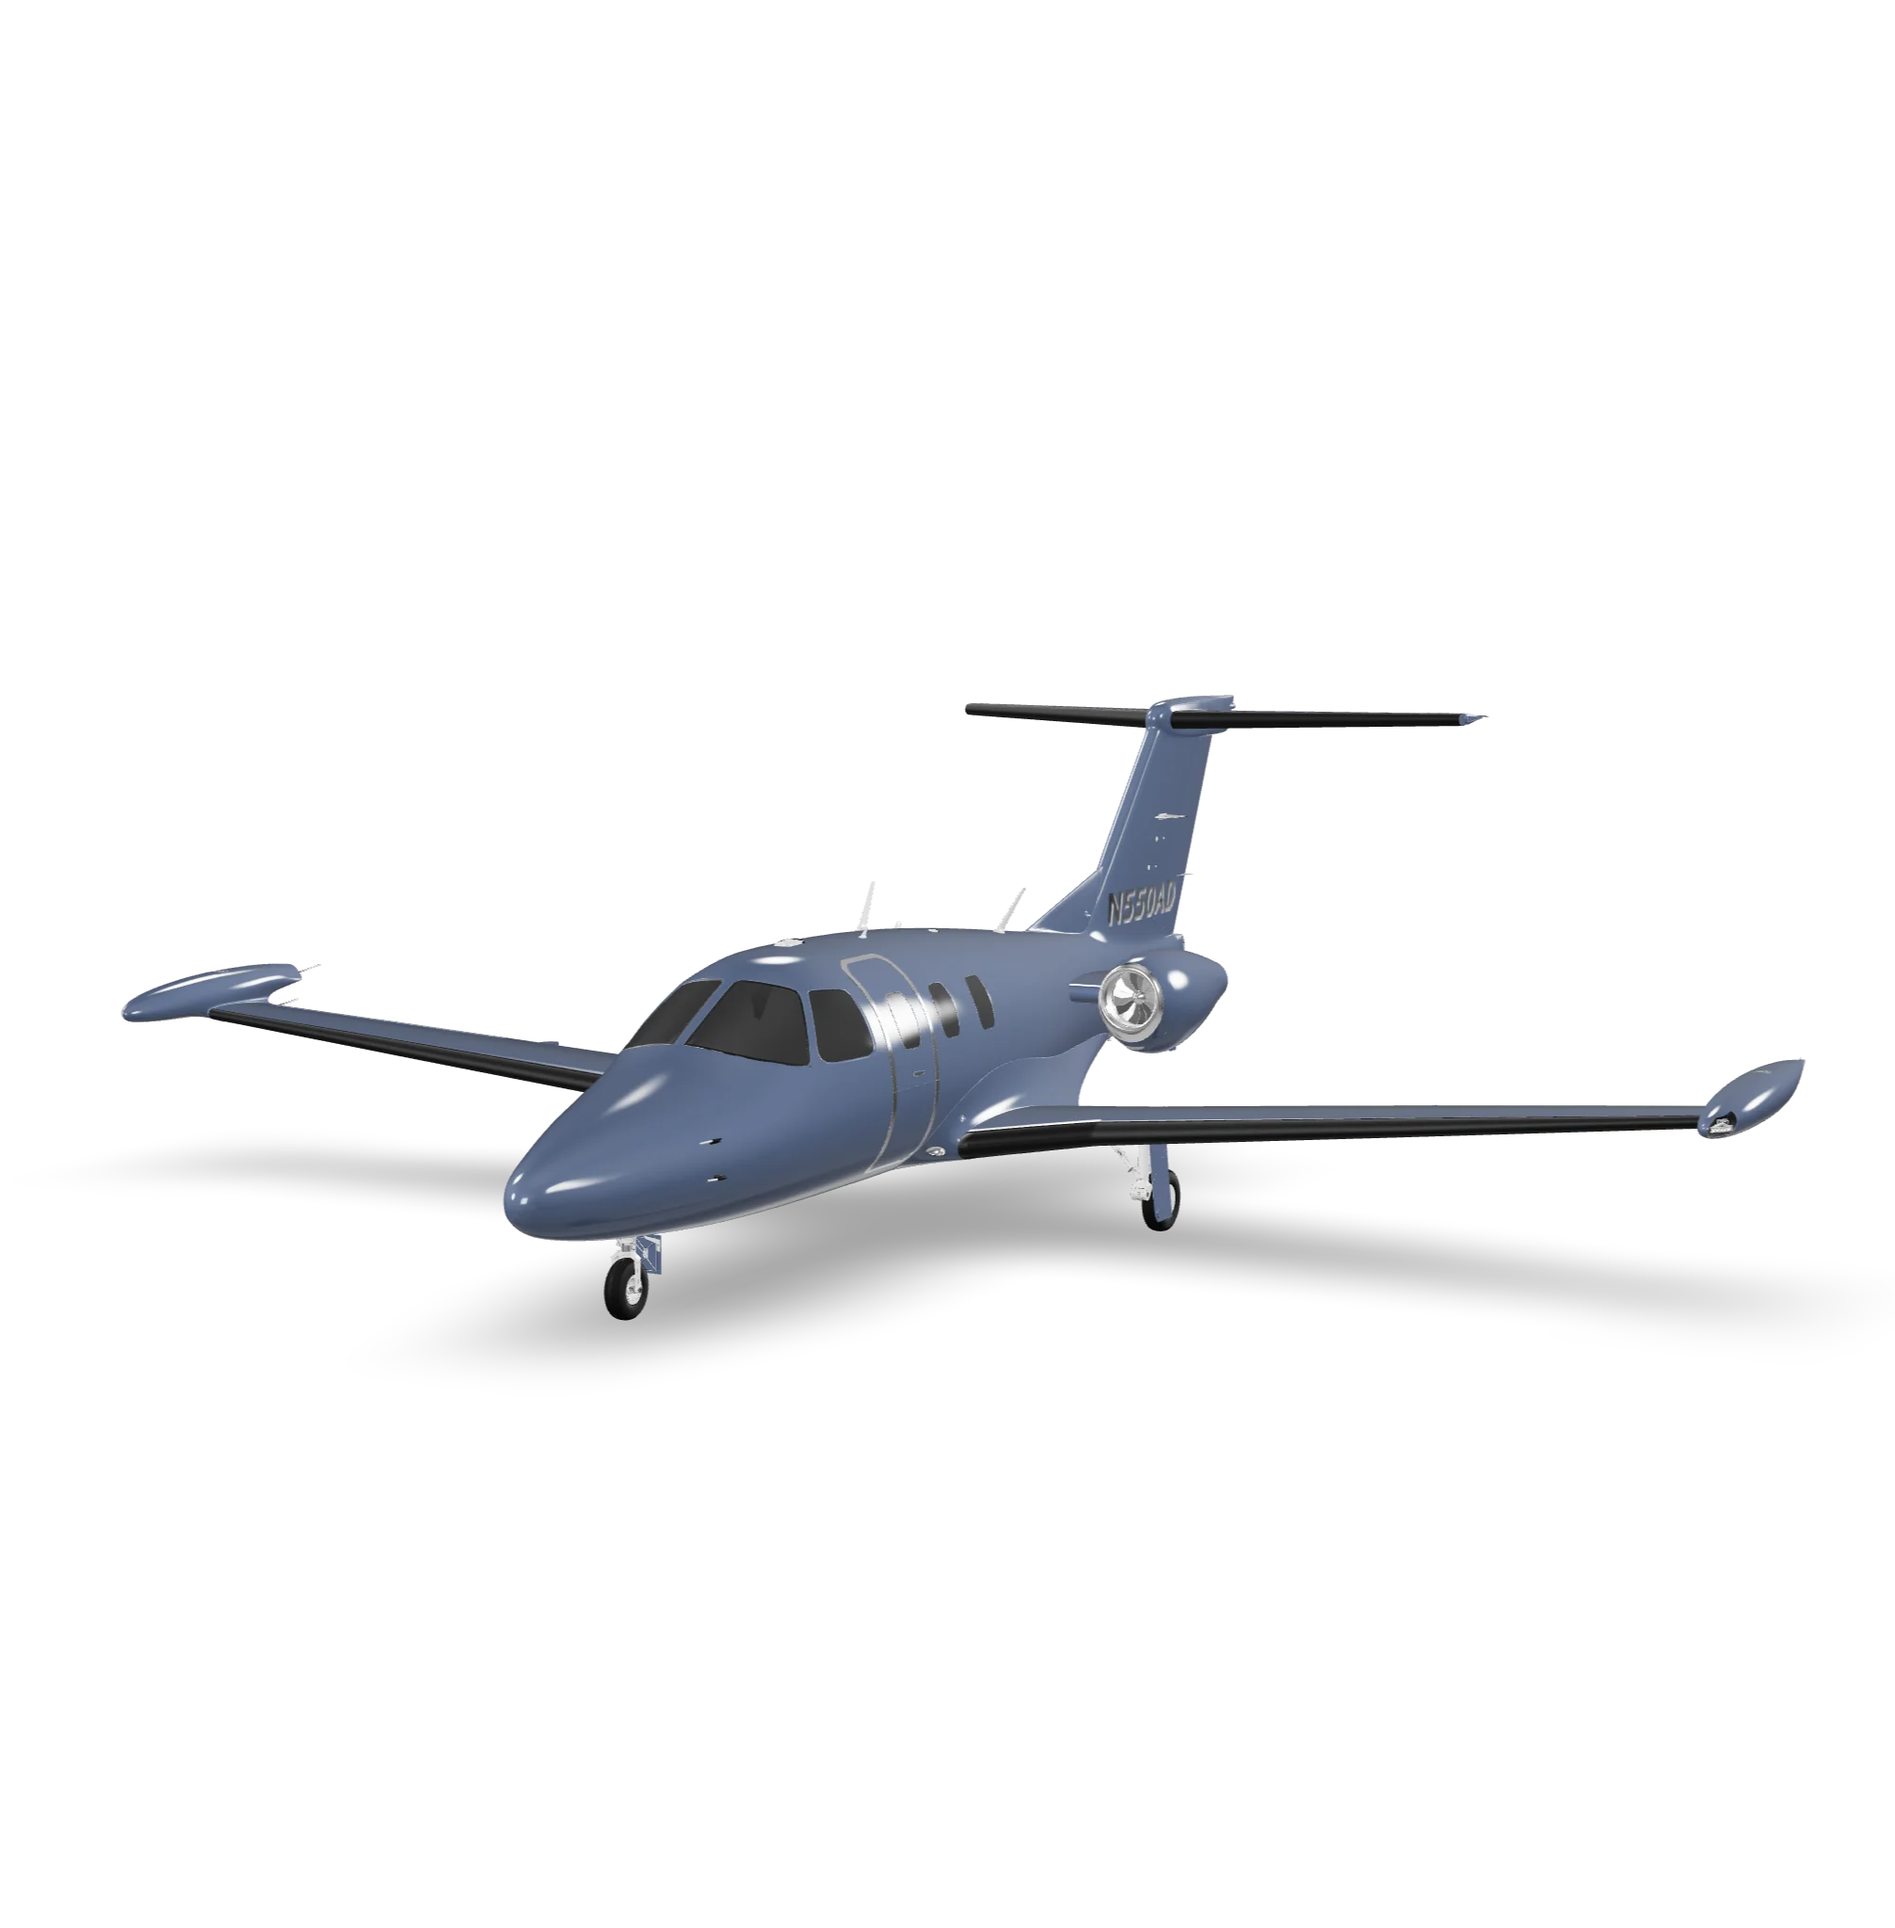
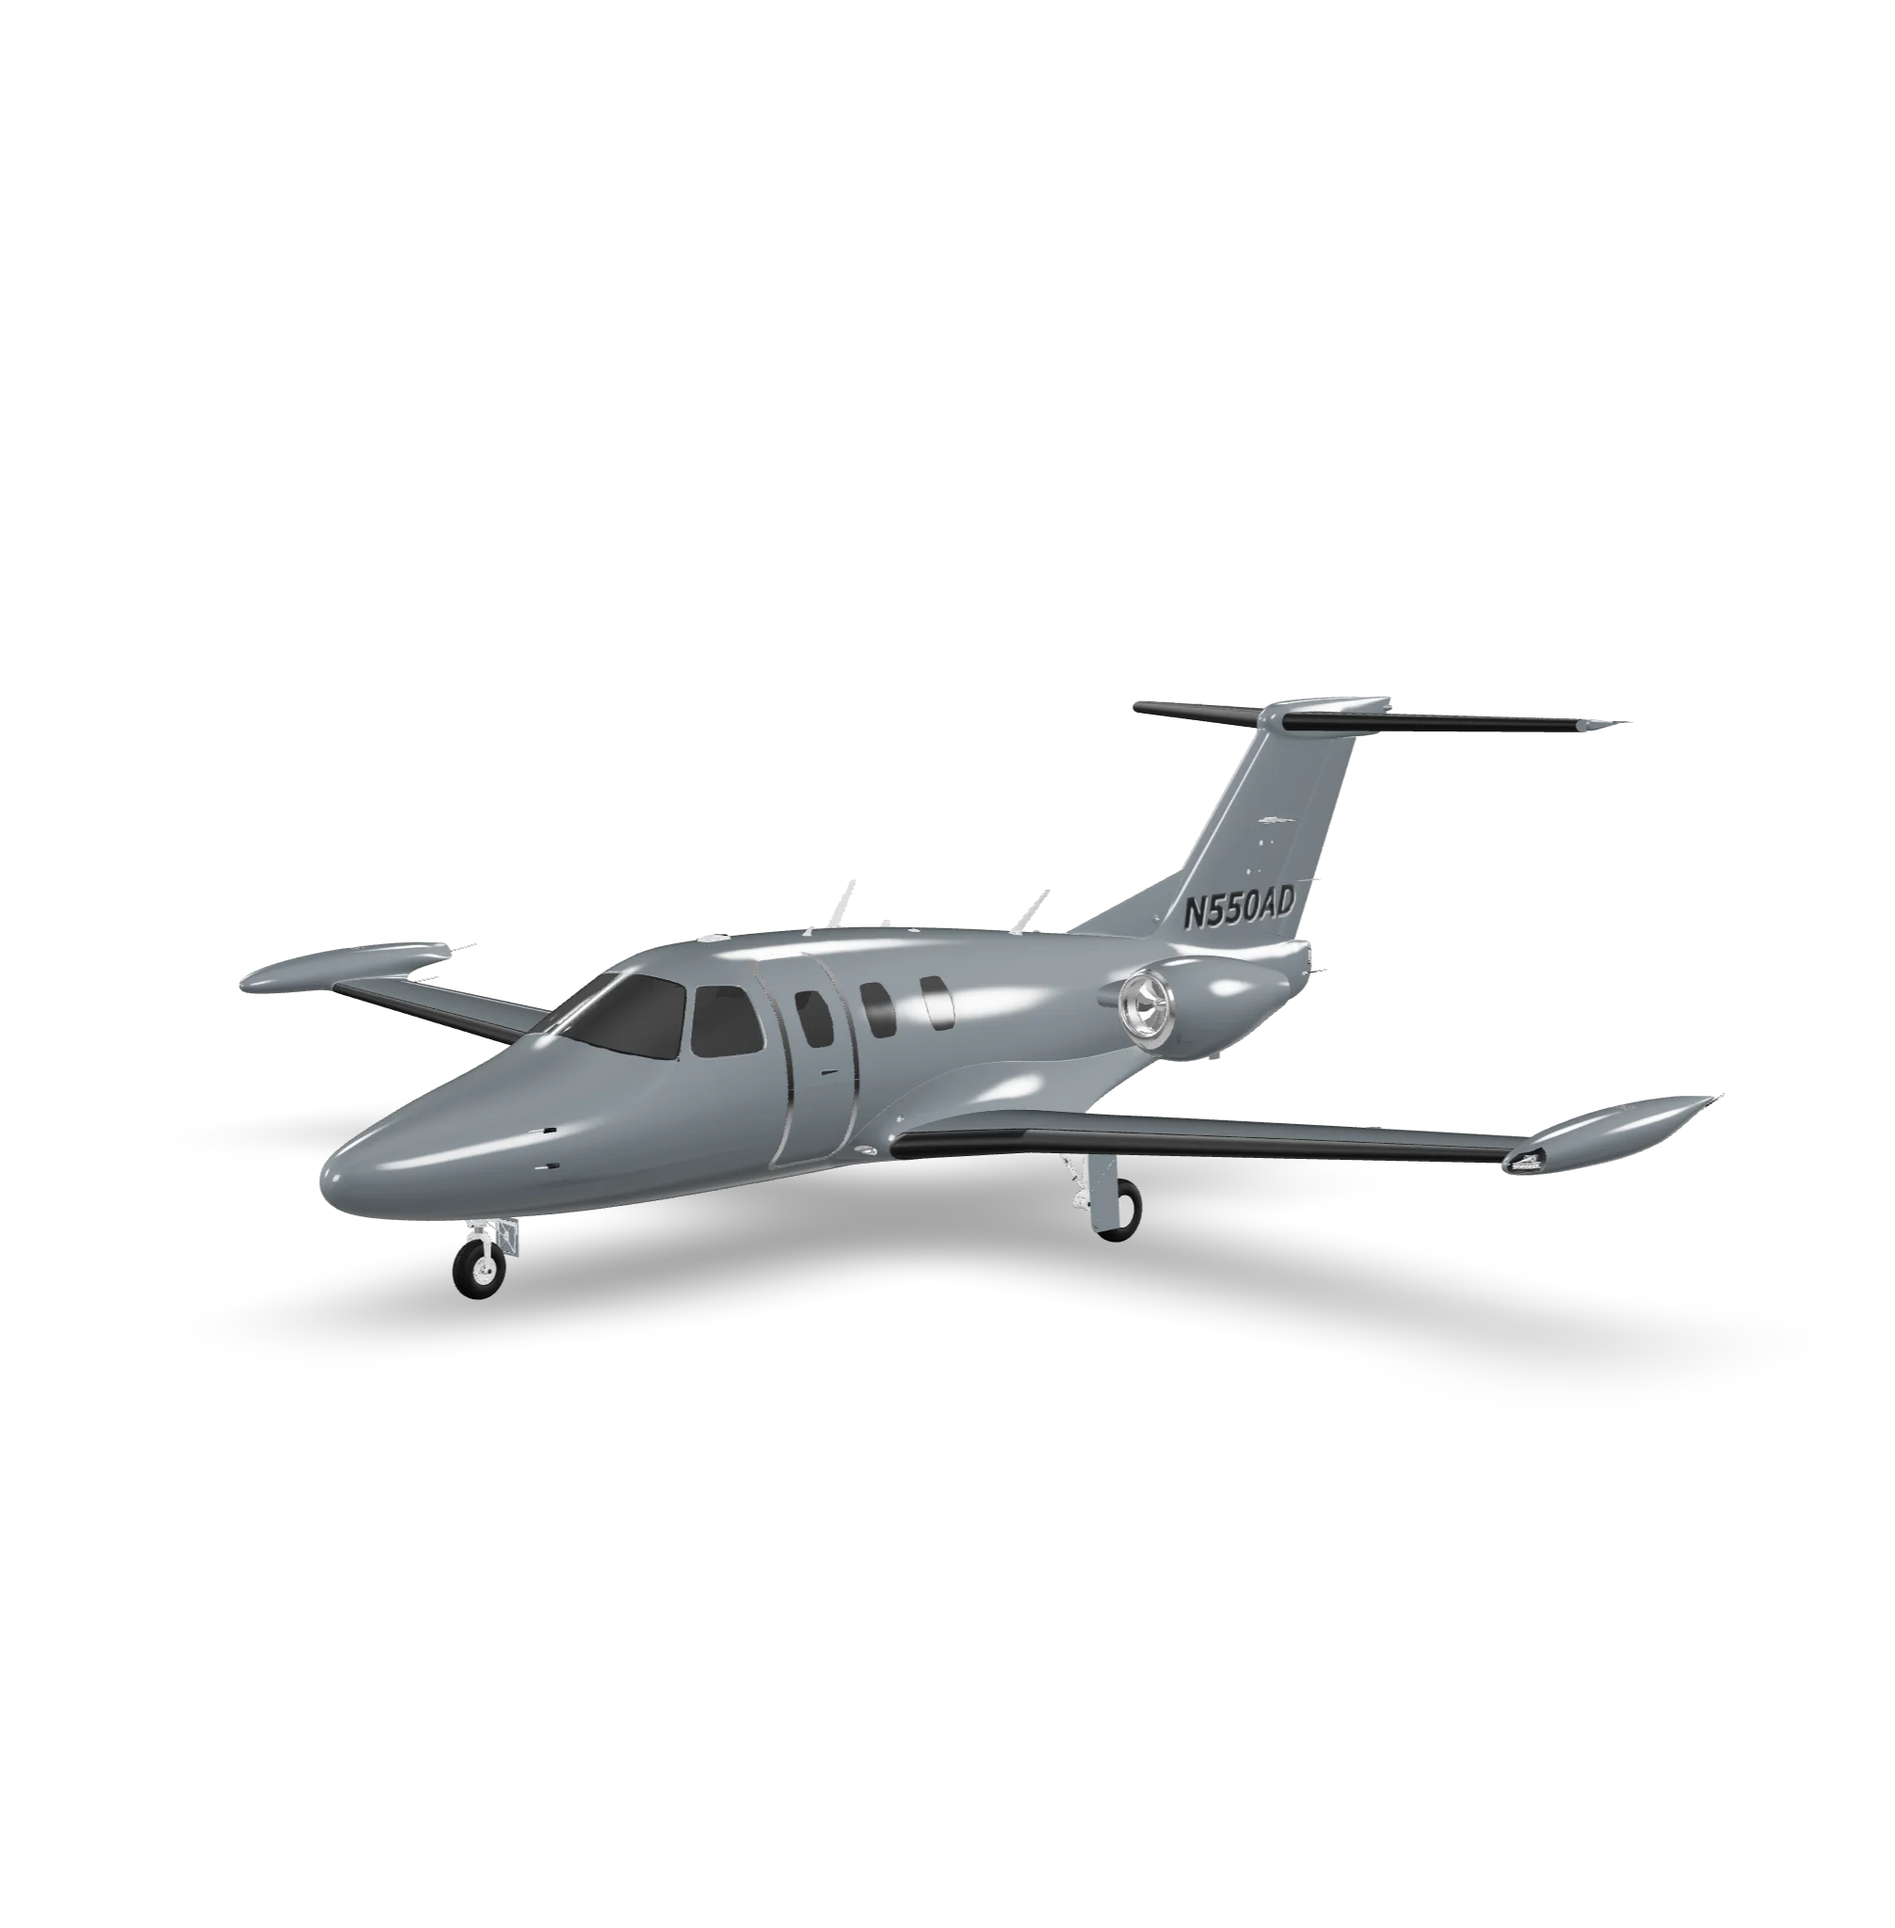
Modified model size

Changed region(s): [[0.0616, 0.3438, 0.9548, 0.7188]]

diff --git a/index.html b/index.html
@@ -25,8 +25,8 @@
       id="model" 
       reveal="auto"
       ar ar-modes="webxr scene-viewer quick-look" ar-scale="10"
-      camera-controls pan-control 
-      camera-orbit="26.91deg 83.51deg auto"
+      camera-controls enable-pan 
+      camera-orbit="42.91deg 83.17deg auto"
       environment-image="neutral"
       shadow-intensity="1">
 
